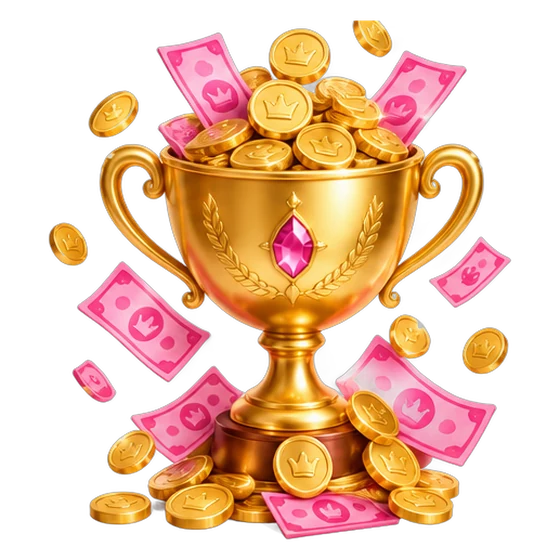
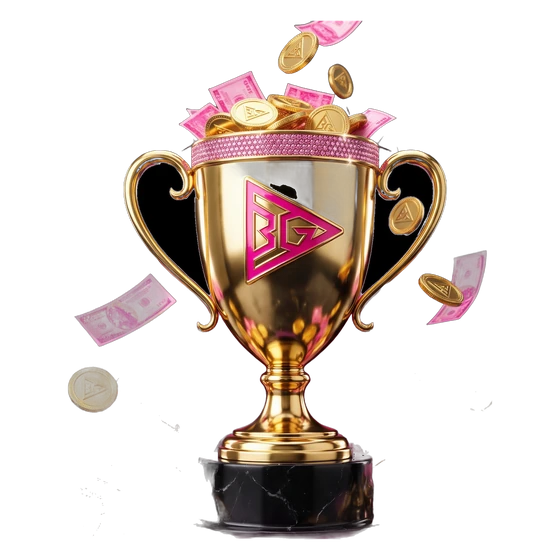
Главная: маска, иконки YouTube и бизнес-программы, 3D-логотип, кубок с деньгами, суперприз, чёткий логотип IBV

diff --git a/ru.html b/ru.html
@@ -10,7 +10,7 @@
 <link rel="preconnect" href="https://fonts.gstatic.com" crossorigin>
 <link rel="stylesheet" href="https://fonts.googleapis.com/css2?family=Montserrat:wght@600;700;800;900&family=Oswald:wght@400;500;600&family=Manrope:wght@400;500;600;700&family=Pixelify+Sans:wght@400..700&family=JetBrains+Mono:wght@400;500;700&display=swap">
 <link rel="stylesheet" href="styles.css?v=ad1ccce0">
-<link rel="stylesheet" href="squid.css?v=93f926c5">
+<link rel="stylesheet" href="squid.css?v=baf68e54">
 
 <!-- SPRITE -->
 <div class="preloader" id="preloader">
@@ -229,7 +229,7 @@
     <div class="tst rv">
       <div class="tst-art" aria-hidden="true">
         <span class="tst-glow"></span>
-        <img class="tst-mask tst-logo" src="assets/home/logo-emblem-pink.svg" alt="" width="400" height="400" loading="lazy">
+        <img class="tst-mask" src="assets/home/mask.webp" alt="" width="480" height="480" loading="lazy">
         <img class="tst-ic i1" src="assets/home/icons/brow.webp" alt="" width="320" height="320" loading="lazy"><img class="tst-ic i2" src="assets/home/icons/lash.webp" alt="" width="320" height="320" loading="lazy"><img class="tst-ic i3" src="assets/home/icons/nails.webp" alt="" width="320" height="320" loading="lazy"><img class="tst-ic i4" src="assets/home/icons/makeup.webp" alt="" width="320" height="320" loading="lazy"><img class="tst-ic i5" src="assets/home/icons/chart.webp" alt="" width="320" height="320" loading="lazy"><img class="tst-ic i6" src="assets/home/icons/star.webp" alt="" width="320" height="320" loading="lazy">
       </div>
       <span class="tst-pill">Тест · 4 шага · 3 минуты</span>
@@ -321,7 +321,7 @@
       <div class="path-stage">
         <div class="pstep on" data-step="0">
           <div class="pstep-head">
-            <img class="pstep-art" src="assets/home/icons/ticket.webp" alt="" width="200" height="200" loading="lazy">
+            <img class="pstep-art" src="assets/home/mask.webp" alt="" width="200" height="200" loading="lazy">
             <span class="pstep-dur">сразу</span>
             <h3 class="pstep-t">Бронирование</h3>
           </div>
@@ -418,7 +418,7 @@
 <!-- ============ ПРОГРАМА ============ -->
 <section class="sec" id="program">
   <div class="wrap">
-    <img class="sec-art sec-art-ic" src="assets/home/icons/program.webp" alt="" loading="lazy" width="320" height="320">
+    <img class="sec-art sec-art-ic" src="assets/home/icons/biz.webp" alt="" loading="lazy" width="320" height="320">
     <div class="sec-head rv">
       <div class="prog-mark">
         <svg class="prog-emblem" aria-hidden="true"><use href="#bg-logo"/></svg>
@@ -864,6 +864,10 @@
         </ul>
       </div>
     </div>
+    <figure class="prizes rv">
+      <img src="assets/home/photo/prizes.webp" alt="Призы сезона: кубок, авто, ключи от квартиры, деньги, оборудование" width="1600" height="893" loading="lazy">
+      <figcaption>Гран-при сезона: кубок Beauty Games, денежные призы, авто, оборудование и подарки от партнёров</figcaption>
+    </figure>
   </div>
 </section>
 
@@ -950,7 +954,7 @@
 <!-- ============ ПАКЕТИ ============ -->
 <section class="sec" id="packages">
   <div class="wrap">
-    <img class="sec-art sec-art-ic" src="assets/home/icons/crown.webp" alt="" loading="lazy" width="320" height="320">
+    <img class="sec-art sec-art-ic" src="assets/home/icons/logo3d.webp" alt="" loading="lazy" width="320" height="320">
     <div class="sec-head rv">
       <span class="eyebrow">Три формата участия</span>
       <h2 class="h-lg">Пакеты <span class="glow">участия</span></h2>
@@ -1040,7 +1044,7 @@
 <!-- ============ YOUTUBE ============ -->
 <section class="sec sec-light" id="youtube">
   <div class="wrap">
-    <img class="sec-art sec-art-ic" src="assets/home/icons/tv.webp" alt="" loading="lazy" width="320" height="320">
+    <img class="sec-art sec-art-ic" src="assets/home/icons/youtube.webp" alt="" loading="lazy" width="320" height="320">
     <div class="sec-head rv">
       <span class="eyebrow">Мы на YouTube</span>
       <h2 class="h-lg">Эфиры и разборы <span class="glow">уже на канале</span></h2>

diff --git a/index.html b/index.html
@@ -10,7 +10,7 @@
 <link rel="preconnect" href="https://fonts.gstatic.com" crossorigin>
 <link rel="stylesheet" href="https://fonts.googleapis.com/css2?family=Montserrat:wght@600;700;800;900&family=Oswald:wght@400;500;600&family=Manrope:wght@400;500;600;700&family=Pixelify+Sans:wght@400..700&family=JetBrains+Mono:wght@400;500;700&display=swap">
 <link rel="stylesheet" href="styles.css?v=ad1ccce0">
-<link rel="stylesheet" href="squid.css?v=93f926c5">
+<link rel="stylesheet" href="squid.css?v=baf68e54">
 
 <!-- SPRITE -->
 <div class="preloader" id="preloader">
@@ -229,7 +229,7 @@
     <div class="tst rv">
       <div class="tst-art" aria-hidden="true">
         <span class="tst-glow"></span>
-        <img class="tst-mask tst-logo" src="assets/home/logo-emblem-pink.svg" alt="" width="400" height="400" loading="lazy">
+        <img class="tst-mask" src="assets/home/mask.webp" alt="" width="480" height="480" loading="lazy">
         <img class="tst-ic i1" src="assets/home/icons/brow.webp" alt="" width="320" height="320" loading="lazy"><img class="tst-ic i2" src="assets/home/icons/lash.webp" alt="" width="320" height="320" loading="lazy"><img class="tst-ic i3" src="assets/home/icons/nails.webp" alt="" width="320" height="320" loading="lazy"><img class="tst-ic i4" src="assets/home/icons/makeup.webp" alt="" width="320" height="320" loading="lazy"><img class="tst-ic i5" src="assets/home/icons/chart.webp" alt="" width="320" height="320" loading="lazy"><img class="tst-ic i6" src="assets/home/icons/star.webp" alt="" width="320" height="320" loading="lazy">
       </div>
       <span class="tst-pill">Тест · 4 кроки · 3 хвилини</span>
@@ -321,7 +321,7 @@
       <div class="path-stage">
         <div class="pstep on" data-step="0">
           <div class="pstep-head">
-            <img class="pstep-art" src="assets/home/icons/ticket.webp" alt="" width="200" height="200" loading="lazy">
+            <img class="pstep-art" src="assets/home/mask.webp" alt="" width="200" height="200" loading="lazy">
             <span class="pstep-dur">одразу</span>
             <h3 class="pstep-t">Бронювання</h3>
           </div>
@@ -418,7 +418,7 @@
 <!-- ============ ПРОГРАМА ============ -->
 <section class="sec" id="program">
   <div class="wrap">
-    <img class="sec-art sec-art-ic" src="assets/home/icons/program.webp" alt="" loading="lazy" width="320" height="320">
+    <img class="sec-art sec-art-ic" src="assets/home/icons/biz.webp" alt="" loading="lazy" width="320" height="320">
     <div class="sec-head rv">
       <div class="prog-mark">
         <svg class="prog-emblem" aria-hidden="true"><use href="#bg-logo"/></svg>
@@ -864,6 +864,10 @@
         </ul>
       </div>
     </div>
+    <figure class="prizes rv">
+      <img src="assets/home/photo/prizes.webp" alt="Призи сезону: кубок, авто, ключі від квартири, гроші, обладнання" width="1600" height="893" loading="lazy">
+      <figcaption>Гран-прі сезону: кубок Beauty Games, грошові призи, авто, обладнання та подарунки від партнерів</figcaption>
+    </figure>
   </div>
 </section>
 
@@ -950,7 +954,7 @@
 <!-- ============ ПАКЕТИ ============ -->
 <section class="sec" id="packages">
   <div class="wrap">
-    <img class="sec-art sec-art-ic" src="assets/home/icons/crown.webp" alt="" loading="lazy" width="320" height="320">
+    <img class="sec-art sec-art-ic" src="assets/home/icons/logo3d.webp" alt="" loading="lazy" width="320" height="320">
     <div class="sec-head rv">
       <span class="eyebrow">Три формати участі</span>
       <h2 class="h-lg">Пакети <span class="glow">участі</span></h2>
@@ -1040,7 +1044,7 @@
 <!-- ============ YOUTUBE ============ -->
 <section class="sec sec-light" id="youtube">
   <div class="wrap">
-    <img class="sec-art sec-art-ic" src="assets/home/icons/tv.webp" alt="" loading="lazy" width="320" height="320">
+    <img class="sec-art sec-art-ic" src="assets/home/icons/youtube.webp" alt="" loading="lazy" width="320" height="320">
     <div class="sec-head rv">
       <span class="eyebrow">Ми на YouTube</span>
       <h2 class="h-lg">Ефіри й розбори <span class="glow">вже на каналі</span></h2>

diff --git a/squid.css b/squid.css
@@ -3611,3 +3611,10 @@ html:not(.gated) .hero-reel{animation:reelIn 1.1s cubic-bezier(.2,.8,.2,1) both}
 .tcard-white .icon,.tcard-white .icon-chip .icon,.fmt .fmt-ic img,.pack-std .fmt-ic img,.trio-c .trio-ic{filter:drop-shadow(0 6px 8px rgba(60,10,40,.12))!important}
 .tcard-white .icon-chip::before,.tcard-white .icon-chip::after{display:none!important}
 .live-vid{margin:6px 0 26px}
+
+/* ===== суперприз ===== */
+.prizes{margin:26px 0 0}
+.prizes img{display:block;width:100%;height:auto;border-radius:22px;box-shadow:0 0 0 1px rgba(255,46,136,.3),0 24px 60px rgba(0,0,0,.5)}
+.prizes figcaption{margin-top:12px;text-align:center;font-size:13.5px;color:var(--muted)}
+@media (max-width:760px){.prizes img{width:100vw;margin-left:calc(50% - 50vw);border-radius:0;aspect-ratio:4/3;object-fit:cover}}
+.tst-mask{left:24%;top:14%;width:52%}

diff --git a/avatar-ru.html b/avatar-ru.html
@@ -10,7 +10,7 @@
 <link rel="preconnect" href="https://fonts.gstatic.com" crossorigin>
 <link rel="stylesheet" href="https://fonts.googleapis.com/css2?family=Montserrat:wght@600;700;800;900&family=Oswald:wght@400;500;600&family=Manrope:wght@400;500;600;700&family=Pixelify+Sans:wght@400..700&family=JetBrains+Mono:wght@400;500;700&display=swap">
 <link rel="stylesheet" href="styles.css?v=ad1ccce0">
-<link rel="stylesheet" href="squid.css?v=93f926c5">
+<link rel="stylesheet" href="squid.css?v=baf68e54">
 
 <!-- SPRITE -->
 <div class="preloader" id="preloader">

diff --git a/avatar.html b/avatar.html
@@ -10,7 +10,7 @@
 <link rel="preconnect" href="https://fonts.gstatic.com" crossorigin>
 <link rel="stylesheet" href="https://fonts.googleapis.com/css2?family=Montserrat:wght@600;700;800;900&family=Oswald:wght@400;500;600&family=Manrope:wght@400;500;600;700&family=Pixelify+Sans:wght@400..700&family=JetBrains+Mono:wght@400;500;700&display=swap">
 <link rel="stylesheet" href="styles.css?v=ad1ccce0">
-<link rel="stylesheet" href="squid.css?v=93f926c5">
+<link rel="stylesheet" href="squid.css?v=baf68e54">
 
 <!-- SPRITE -->
 <div class="preloader" id="preloader">
